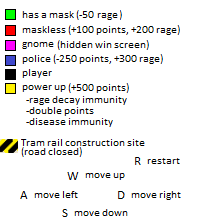
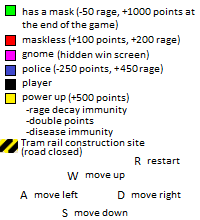
Finished commenting the code. Changed some point and rage values

Changed region(s): [[0.0, 0.0, 0.99, 0.6273]]

diff --git a/Game/gamestatistics.h b/Game/gamestatistics.h
@@ -4,58 +4,176 @@
 #include <QDebug>
 #include "interfaces/istatistics.hh"
 
+/**
+ * @brief The difficulty enum: Used to contain all possible difficulties
+ */
 enum difficulty {EXTREMELY_EASY, EASY, NOT_EASY, UNEASY};
-
+/**
+ * @brief The Gamestatistics class: This class contains everything regarding to points
+ * and the functions to manage them.
+ */
 class Gamestatistics : public Interface::IStatistics
 {
 public:
+    /**
+     * @brief Gamestatistics
+     */
     Gamestatistics();
     ~Gamestatistics();
-
+    /**
+     * @brief returnPoints: returns the current points in the current game
+     * @return int current_points_: contains the amount of points in the current game
+     */
     int returnPoints() {return current_points_;};
+    /**
+     * @brief changePoints: changes the current_points_ by the value given to the param
+     * @param change: int that determines the amount that gets added to current_points_
+     */
     void changePoints(int change) {current_points_ += change;};
-
+    /**
+     * @brief returnTotalPoints: Returns the total points earned through all of the
+     * rounds that the game has been played on that session
+     * @return int total_points_: amount of points earned through all of the rounds
+     */
     int returnTotalPoints() {return total_points_;};
+    /**
+     * @brief changeTotalPoints: Adds int change to total_poins_ counter
+     * @param change: amount that gets added to total_points_
+     */
     void changeTotalPoints(int change) {total_points_ += change;};
-
+    /**
+     * @brief returnRage: Returns the amount of rage left
+     * @return int current_rage_: amount of rage currently
+     */
     int returnRage() {return current_rage_;};
+    /**
+     * @brief changeRage: Adds rage to current_rage_, checks that the value cant go
+     * over 900
+     * @param change: amount that gets added to current_rage_
+     * @return int current_rage_: returns the current_rage_ after addition
+     */
     int changeRage(int change);
-
+    /**
+     * @brief rageDecay: decreases current_rage_ by the amount determined by the
+     * game difficulty
+     * @return int: return remaining amount of rage
+     */
     int rageDecay();
-
+    /**
+     * @brief morePassengers: adds passangers to the current_passager_ count
+     * @param num: amount of passangers to be added
+     */
     void morePassengers(int num) {current_passengers_ += num;};
+    /**
+     * @brief passengerDied: decreases passangers from the current_passager_ count
+     * @param num: amount of passangers to be removed
+     */
     void passengerDied(int num) {current_passengers_ -= num;};
+    /**
+     * @brief returnPassengers: returns the amount of passangers that the player has
+     * picked up and that are still alive
+     * @return int current_passagers_: the amount of passangers
+     */
     int returnPassengers() {return current_passengers_;};
+    /**
+     * @brief doesDiseaseSpread: randomly rolls individually on all passangers on the
+     * bus to see if they get infected and die. If they happen to die it also calls
+     * passangerDied function with the amount
+     */
     void doesDiseaseSpread();
+    /**
+     * @brief resetCurrentPassengers: Sets the current_passengers_ count to 0
+     */
     void resetCurrentPassengers() {current_passengers_ = 0;};
-
+    /**
+     * @brief resetRemainingPedestrians: sets remaining_pedestrians_ to desired value
+     * @param maximum: value to set the remaining_pedestrians_ to
+     */
     void resetRemainingPedestrians(int maximum) {remaining_pedestrians_ = maximum;};
+    /**
+     * @brief removePedestrian: decreases remaining_pedestrians_ count by one
+     */
     void removePedestrian() {--remaining_pedestrians_;}
+    /**
+     * @brief returnRemainingPedestrians: returns the amount of pedestrians left in
+     * the game
+     * @return int remaining_pedestrians_: the amount of pedestrians left
+     */
     int returnRemainingPedestrians() {return remaining_pedestrians_;};
-
+    /**
+     * @brief newNysse: increments one nysse to total_nysses_ counter
+     */
     void newNysse() {++total_nysses_;};
+    /**
+     * @brief returnTotalNysses: returns the amount of nysses(rounds) used
+     * @return int total_nysses_: contains the amount of rounds played
+     */
     int returnTotalNysses() {return total_nysses_;};
-
+    /**
+     * @brief nysseRemoved: increments one to the lost_nysses_ counter which tracks
+     * the amounts of games lost
+     */
     void nysseRemoved() {++lost_nysses_;};
+    /**
+     * @brief returnRemovedNysses: returns the amounts of games lost
+     * @return int lost_nysses_: amount of games lost
+     */
     int returnRemovedNysses() {return lost_nysses_;};
-
+    /**
+     * @brief nysseLeft: increments one to the remaining_nysses_ counter which tracks
+     * the amount of games won
+     */
     void nysseLeft() {++remaining_nysses_;};
+    /**
+     * @brief returnLostNysses: returns the amount of games won
+     * @return int remaining_nysses_: amount of games won
+     */
     int returnLostNysses() {return remaining_nysses_;};
-
+    /**
+     * @brief setGameDifficulty: Sets game difficulty which determines how much rage
+     * decays on each tick
+     * @param dif: contains difficulty
+     */
     void setGameDifficulty(difficulty dif);
 
 private:
+    /**
+     * @brief current_points_: tracks the points on the current round
+     */
     int current_points_;
+    /**
+     * @brief current_rage_: tracks the rage on the current round
+     */
     int current_rage_;
+    /**
+     * @brief current_passengers_: tracks the amount of passangers in the bus on the
+     * current round
+     */
     int current_passengers_;
-
+    /**
+     * @brief rage_decay_amount_: determines the amount of rage lost on each tick
+     */
     int rage_decay_amount_;
+    /**
+     * @brief remaining_pedestrians_: tracks the amount of objects left on the map
+     */
     int remaining_pedestrians_;
-
+    /**
+     * @brief total_nysses_: tracks the amount of rounds played
+     */
     int total_nysses_;
+    /**
+     * @brief remaining_nysses_: tracks teh amount of rounds won
+     */
     int remaining_nysses_;
+    /**
+     * @brief lost_nysses_: tracks the amount of rounds lost
+     */
     int lost_nysses_;
-
+    /**
+     * @brief total_points_: tracks the total amount of points acumalated on all
+     * rounds
+     */
     int total_points_;
 };
 

diff --git a/Game/mainwindow.cpp b/Game/mainwindow.cpp
@@ -16,7 +16,6 @@ MainWindow::MainWindow(QWidget *parent) :
 {
     ui->setupUi(this);
     QPixmap infolabel(":/images/infolabel.png");
-    ui->infoLabel->setPixmap(infolabel);
     QPixmap running(":/images/map.png");
     QPixmap goblin(":/images/gnome.png");
     QPixmap crash(":/images/crash.png");
@@ -27,6 +26,7 @@ MainWindow::MainWindow(QWidget *parent) :
     gameimages_->insert({RAGE, rage});
     gameimages_->insert({VICTORY, victory});
     gameimages_->insert({GNOMED, goblin});
+    ui->infoLabel->setPixmap(infolabel);
 
     ragescene_ = new QGraphicsScene(this);
     ui->rageMeter->setScene(ragescene_);
@@ -40,10 +40,8 @@ MainWindow::MainWindow(QWidget *parent) :
     gamescene_ = new QGraphicsScene(this);
     ui->MapView->setScene(gamescene_);
     gamescene_->setSceneRect(0,0,800,800);
-
     ui->MapView->setHorizontalScrollBarPolicy(Qt::ScrollBarAlwaysOff);
     ui->MapView->setVerticalScrollBarPolicy(Qt::ScrollBarAlwaysOff);
-
     gamescene_->addPixmap(gameimages_->at(RUNNING));
 
     startup_ = new StartupWindow(this);
@@ -118,7 +116,7 @@ void MainWindow::createGame(int chosen_difficulty)
     difficulty diff = (difficulty)chosen_difficulty;
 
     game_running_ = true;
-
+    //only done on the first round
     if(gamestats_->returnTotalNysses() == 0){
         readCoordinates();
         QGraphicsRectItem* gnomerect = gamescene_->addRect(0,0,10,10);
@@ -134,6 +132,7 @@ void MainWindow::createGame(int chosen_difficulty)
         ui->wonGameValue->setText("0");
         ui->totalPointValue->setText("0");
     }
+    //game initialization after the 1st round
     if(gamestats_->returnTotalNysses() > 0){
         delete player_;
         delete gnome_;
@@ -262,7 +261,7 @@ void MainWindow::checkGamepieceCollision()
                     gamestats_->changeTotalPoints(-250);
                     ui->totalPointValue->setText(QString::number(gamestats_->returnTotalPoints()));
 
-                    ragemeter_y = gamestats_->changeRage(300);
+                    ragemeter_y = gamestats_->changeRage(450);
                     ragemeter_->setPos(940, ragemeter_y);
 
                     break;
@@ -288,6 +287,7 @@ void MainWindow::checkGamepieceCollision()
                     break;
                 }
             }
+            //removes objects that are no longer relevant to the game
             if (game_running_) {
                 gamescene_->removeItem(list_of_gamepieces_.at(i)->returnSelf());
                 delete list_of_gamepieces_.at(i)->returnSelf();
@@ -309,7 +309,6 @@ void MainWindow::tickHandler()
     }
     ++current_tick_;
     if (gamestats_->returnRage() <= 0) {
-       current_tick_ = 0;
        endGame(RAGE);
     } else if (current_tick_ == 10) {
         current_tick_ = 0;
@@ -461,12 +460,12 @@ void MainWindow::endGame(gamestate condition)
     gamestats_->newNysse();
     ui->totalGameValue->setText(QString::number(gamestats_->returnTotalNysses()));
 
-    if (condition == VICTORY) {
+    if (condition == VICTORY || condition == GNOMED) {
         gamestats_->nysseLeft();
         ui->wonGameValue->setText(QString::number(gamestats_->returnLostNysses()));
 
-        gamestats_->changePoints(gamestats_->returnPassengers() * 150);
-        gamestats_->changeTotalPoints(gamestats_->returnPassengers() * 150);
+        gamestats_->changePoints(gamestats_->returnPassengers() * 1000);
+        gamestats_->changeTotalPoints(gamestats_->returnPassengers() * 1000);
         ui->totalPointValue->setText(QString::number(gamestats_->returnTotalPoints()));
         ui->lcdPoints->display(QString::number(gamestats_->returnPoints()));
     } else {
@@ -478,6 +477,7 @@ void MainWindow::endGame(gamestate condition)
         ui->totalPointValue->setText(QString::number(gamestats_->returnTotalPoints()));
         ui->lcdPoints->display(QString::number(gamestats_->returnPoints()));
     }
+    //removes the remaining pointers in the list to avoid memory leaks
     if(list_of_gamepieces_.size() > 0){
         for(int i = (int) (list_of_gamepieces_.size() - 1); i >= 0; i--){
             gamescene_->removeItem(list_of_gamepieces_.at(i)->returnSelf());

diff --git a/Game/gamestatistics.cpp b/Game/gamestatistics.cpp
@@ -9,7 +9,7 @@ Gamestatistics::Gamestatistics() :
 
 Gamestatistics::~Gamestatistics()
 {
-
+    srand(time(0));
 }
 
 int Gamestatistics::changeRage(int change)
@@ -20,18 +20,17 @@ int Gamestatistics::changeRage(int change)
     else {
         current_rage_ += change;
     }
-    return 160 - current_rage_/6;
+    return 160 - current_rage_/6; //rage is divided by 6 to make the rage bar last longer
 }
 
 int Gamestatistics::rageDecay()
 {
     current_rage_ -= rage_decay_amount_;
-    return 160 - current_rage_/6;
+    return 160 - current_rage_/6; //rage is divided by 6 to make the rage bar last longer
 }
 
 void Gamestatistics::doesDiseaseSpread()
 {
-    srand(time(0));
     int dead_passengers = 0;
     for (int i = 0; i < current_passengers_; ++i) {
         if ((1 + rand() % 10) < 3) {
